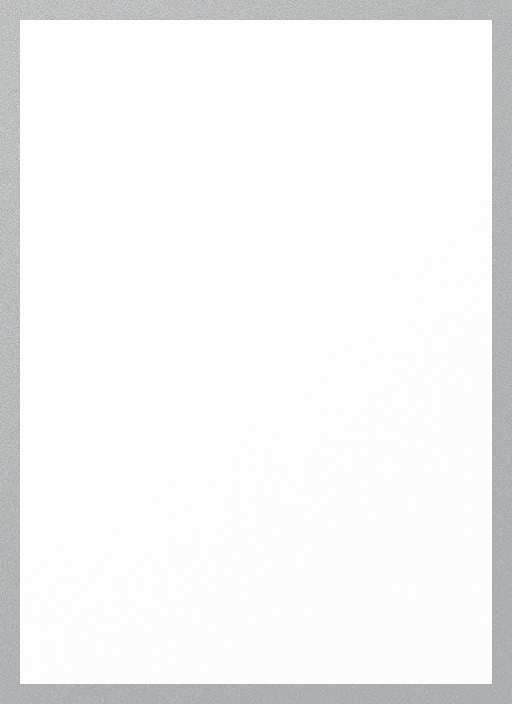
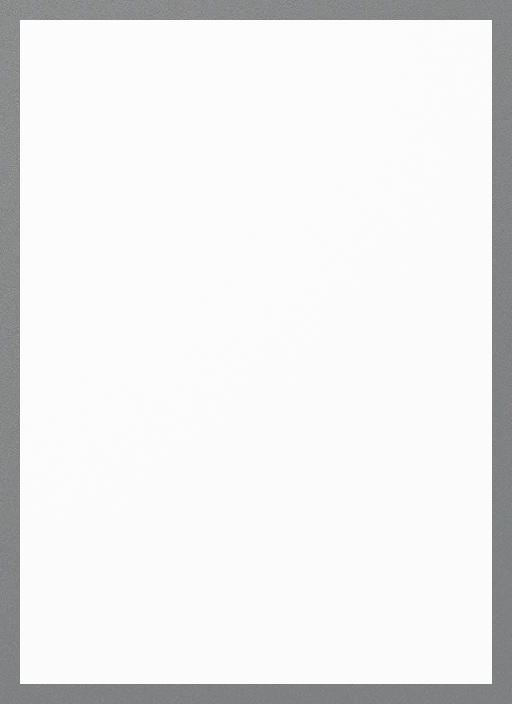
Boost holo effect

Changed region(s): [[0.0, 0.0, 1.0, 1.0]]

diff --git a/src/components/items/CardSimple.js b/src/components/items/CardSimple.js
@@ -18,7 +18,7 @@ const CardSimple = ({ data, access }) => {
   const holoStyle = {
     backgroundImage: `url("/img/cards/holo-${data.accessLevel}.webp")`,
     filter: `hue-rotate(${data.accessLevel * 50}deg)`,
-    opacity: `${1 / 15 / 3}`,
+    opacity: "0.15",
   };
 
   return (

diff --git a/src/pages/Cards/Cards.js b/src/pages/Cards/Cards.js
@@ -15,7 +15,7 @@ import {
 
 const ITEMS_HOMEPAGE = 36;
 const ITEMS_PER_PAGE = 8;
-const ACCESS_LEVEL = 1;
+const ACCESS_LEVEL = 3;
 
 const getTheme = (themeName) => {
   return cardThemes.find((theme) => theme.name === themeName) || {};
